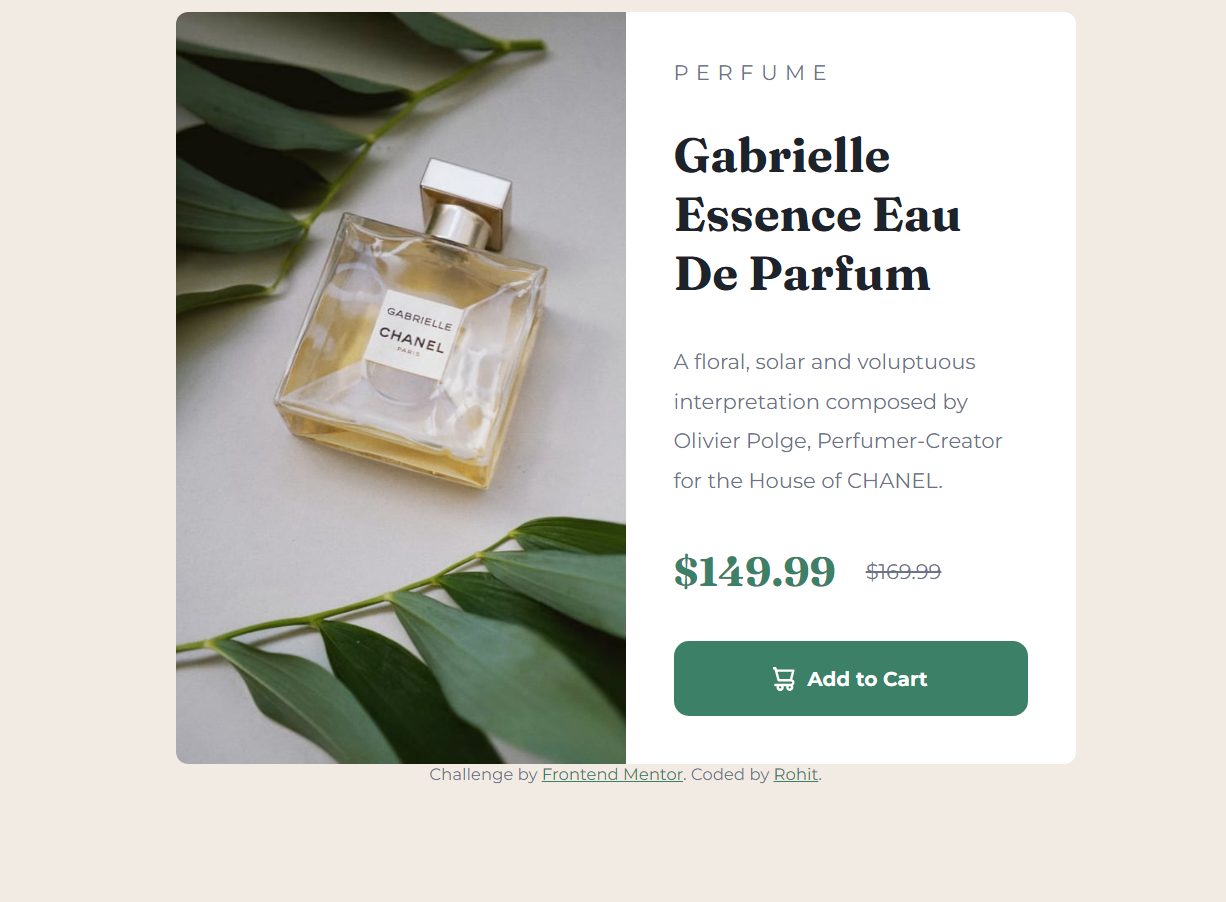
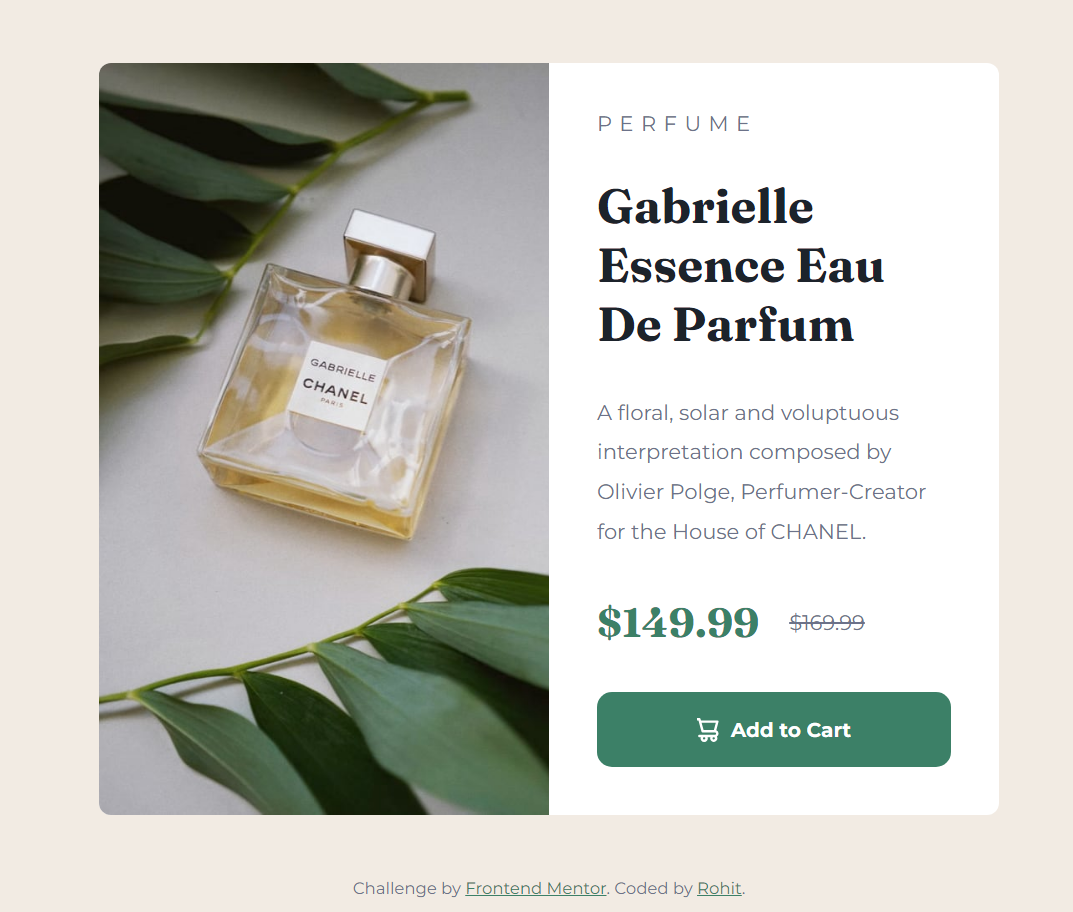
CSS Updated

diff --git a/Styles.css b/Styles.css
@@ -11,8 +11,13 @@
 }
 
 body {
+    height: 100%;
+    margin: 0;
+    display: flex;
+    flex-direction: column;
+    align-items: center;
+    justify-content: center;
     background-color: var(--cream);
-    min-height: 100vh;
     font-size: 14px;
     font-family: "Montserrat", sans-serif;
     color: var(--Darkgrayishblue);
@@ -21,11 +26,12 @@ body {
 
 
 main {
+
     display: flex;
+    flex-direction: column;
     align-items: center;
     justify-content: center;
-    min-height: 350px;
-
+    min-height: 100vh;
 }
 
 section {
@@ -57,8 +63,6 @@ img {
     border-top-left-radius: 8px;
     border-bottom-left-radius: 8px;
 }
-
-
 
 .product-desc {
     padding: 32px;
@@ -109,6 +113,9 @@ button:active {
 .attribution {
     font-size: 11px;
     text-align: center;
+    margin-top: auto;
+    /* Pushes the attribution to the bottom */
+    padding-bottom: 10px;
 }
 
 .attribution a {
@@ -137,6 +144,6 @@ button:active {
         width: 100%;
         border-top-left-radius: 8px;
         border-top-right-radius: 8px;
-        border-bottom-left-radius: 0px; 
+        border-bottom-left-radius: 0px;
     }
 }
